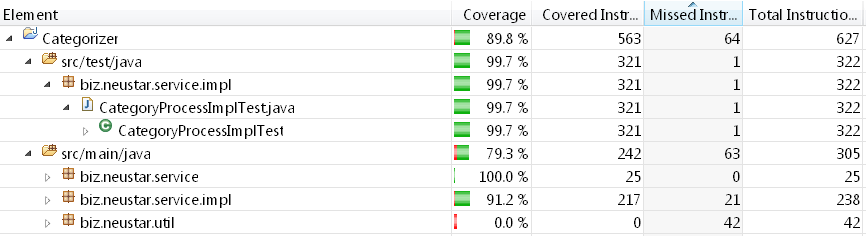
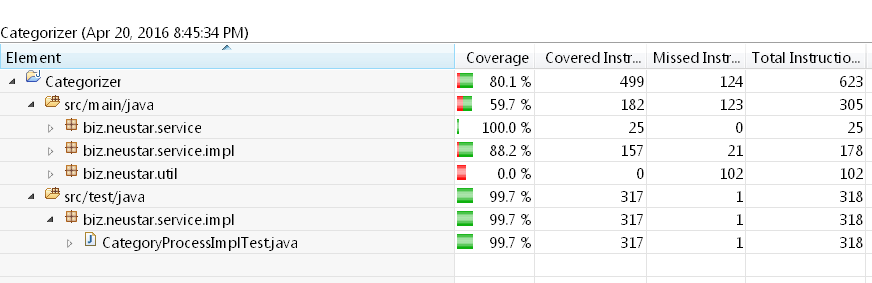
Removed display methods and added to main class

Changed region(s): [[0.0, 0.0, 1.0, 1.0], [0.0624, 0.8898, 0.2182, 0.9788], [0.4988, 0.9195, 0.53, 0.9492]]

diff --git a/src/main/java/biz/neustar/util/CategoryProcessLauncher.java b/src/main/java/biz/neustar/util/CategoryProcessLauncher.java
@@ -2,7 +2,10 @@ package biz.neustar.util;
 
 import biz.neustar.service.CategoryProcess;
 import biz.neustar.service.impl.CategoryProcessImpl;
+import java.util.List;
+import java.util.Map;
 import java.util.Set;
+import org.apache.commons.collections.CollectionUtils;
 import org.apache.commons.lang3.StringUtils;
 
 public class CategoryProcessLauncher {
@@ -14,7 +17,8 @@ public class CategoryProcessLauncher {
                 CategoryProcess categoryProcess = new CategoryProcessImpl();
                 Set<String> categoryAndSubCategorySet = categoryProcess.readFileContents(fileName);
                 categoryProcess.processValidCategories(categoryAndSubCategorySet);
-                categoryProcess.displayCategoryAndSubcategoriesCount(categoryAndSubCategorySet);
+                displayCategoriesWithCount(((CategoryProcessImpl) categoryProcess).getCategoryAndSubCategoryMap());
+                displayCategoryAndSubcategoriesCount(categoryAndSubCategorySet);
             } else {
                 System.err.println("Usage: java CategoryProcessLauncher <FileName>");
                 System.err.println("Pass valid file name as Argument!!");
@@ -23,5 +27,30 @@ public class CategoryProcessLauncher {
             e.printStackTrace();
         }
     }
-    
+
+    /**
+     * iterates through the set and prints the unique contents and also displays the category along with its
+     * sub-categories count.
+     * 
+     * @param categoryAndSubCategorySet
+     *            having unique contents
+     */
+    private static void displayCategoryAndSubcategoriesCount(Set<String> categoryAndSubCategorySet) {
+        if (CollectionUtils.isNotEmpty(categoryAndSubCategorySet)) {
+            for (String entry : categoryAndSubCategorySet) {
+                System.out.print("\n" + entry);
+            }
+        }
+    }
+
+    /**
+     * iterates the map and prints the category and its count.
+     * 
+     */
+    private static void displayCategoriesWithCount(Map<String, List<String>> categoryAndSubCategoryMap) {
+        System.out.println("CATEGORY     COUNT");
+        for (Map.Entry<String, List<String>> entry : categoryAndSubCategoryMap.entrySet()) {
+            System.out.println(entry.getKey() + "     " + entry.getValue().size());
+        }
+    }
 }

diff --git a/src/main/java/biz/neustar/service/impl/CategoryProcessImpl.java b/src/main/java/biz/neustar/service/impl/CategoryProcessImpl.java
@@ -86,22 +86,7 @@ public class CategoryProcessImpl implements CategoryProcess {
         }
     }
 
-    /**
-     * iterates through the set and prints the unique contents and also displays the category along with its
-     * sub-categories count.
-     * 
-     * @param categoryAndSubCategorySet
-     *            having unique contents
-     */
-    @Override
-    public void displayCategoryAndSubcategoriesCount(Set<String> categoryAndSubCategorySet) {
-        displayCategoriesWithCount();
-        if (CollectionUtils.isNotEmpty(categoryAndSubCategorySet)) {
-            for (String entry : categoryAndSubCategorySet) {
-                System.out.print("\n" + entry);
-            }
-        }
-    }
+    
 
     /**
      * checks whether the category is allowed, if allowed adds the category and its sub-category to the map, else
@@ -134,16 +119,6 @@ public class CategoryProcessImpl implements CategoryProcess {
         }
     }
 
-    /**
-     * iterates the map and prints the category and its count.
-     * 
-     */
-    private void displayCategoriesWithCount() {
-        System.out.println("CATEGORY     COUNT");
-        for (Map.Entry<String, List<String>> entry : categoryAndSubCategoryMap.entrySet()) {
-            System.out.println(entry.getKey() + "     " + entry.getValue().size());
-        }
-    }
     
     /**
      * Returns the map holding the category and sub-category. 

diff --git a/src/test/java/biz/neustar/service/impl/CategoryProcessImplTest.java b/src/test/java/biz/neustar/service/impl/CategoryProcessImplTest.java
@@ -53,7 +53,6 @@ public class CategoryProcessImplTest {
         final int[] SUB_CATEGORY_COUNT = { 2, 2, 2, 1, 1 };
         Set<String> randomlyOrderedSet = getFakeCatAndSubCatInMixedOrder();
         categoryProcess.processValidCategories(randomlyOrderedSet);
-        categoryProcess.displayCategoryAndSubcategoriesCount(randomlyOrderedSet);
         Map<String, List<String>> categoryAndSubCatMap = ((CategoryProcessImpl) categoryProcess)
                 .getCategoryAndSubCategoryMap();
         for (Map.Entry<String, List<String>> catAndSubCat : categoryAndSubCatMap.entrySet()) {

diff --git a/src/main/java/biz/neustar/service/CategoryProcess.java b/src/main/java/biz/neustar/service/CategoryProcess.java
@@ -29,13 +29,4 @@ public interface CategoryProcess {
      * holds the file contents 
      */
     void processValidCategories(Set<String> categoryAndSubCategorySet);
-
-    /**
-     * Displays the unique category and its associated sub-category with count.
-     * 
-     * @param categoryAndSubCategorySet
-     * having unique contents
-     */
-    void displayCategoryAndSubcategoriesCount(Set<String> categoryAndSubCategorySet);
-
 }
